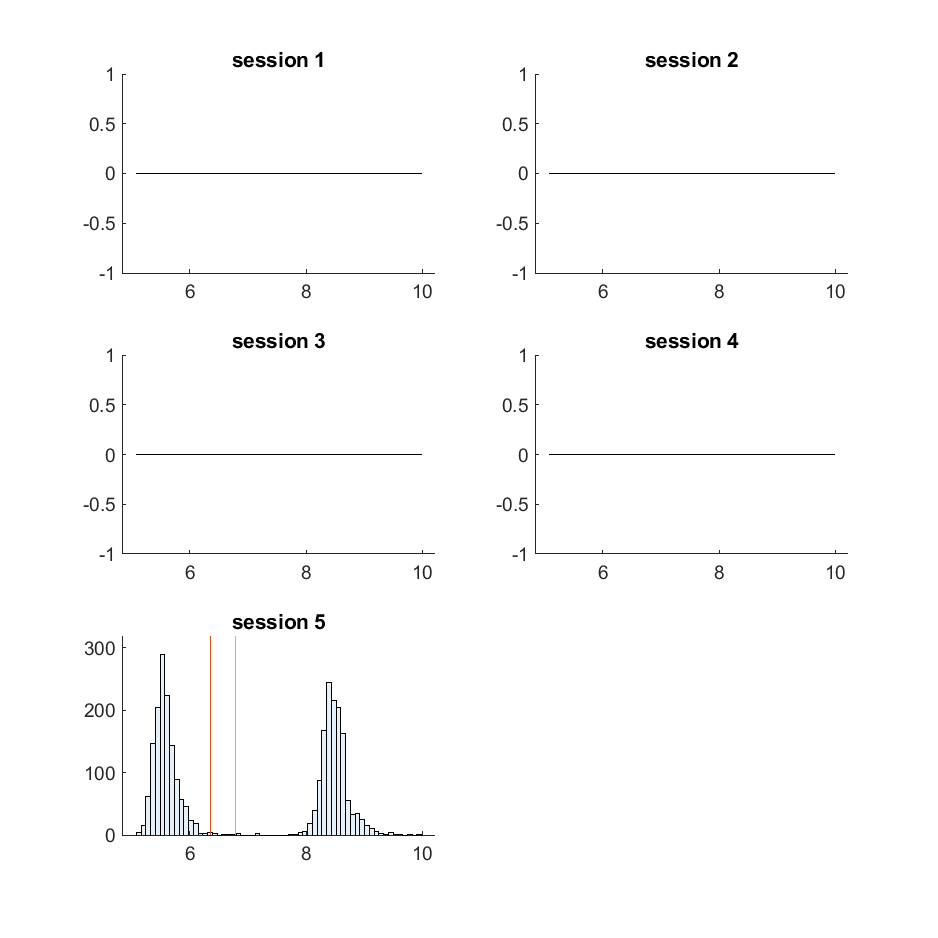
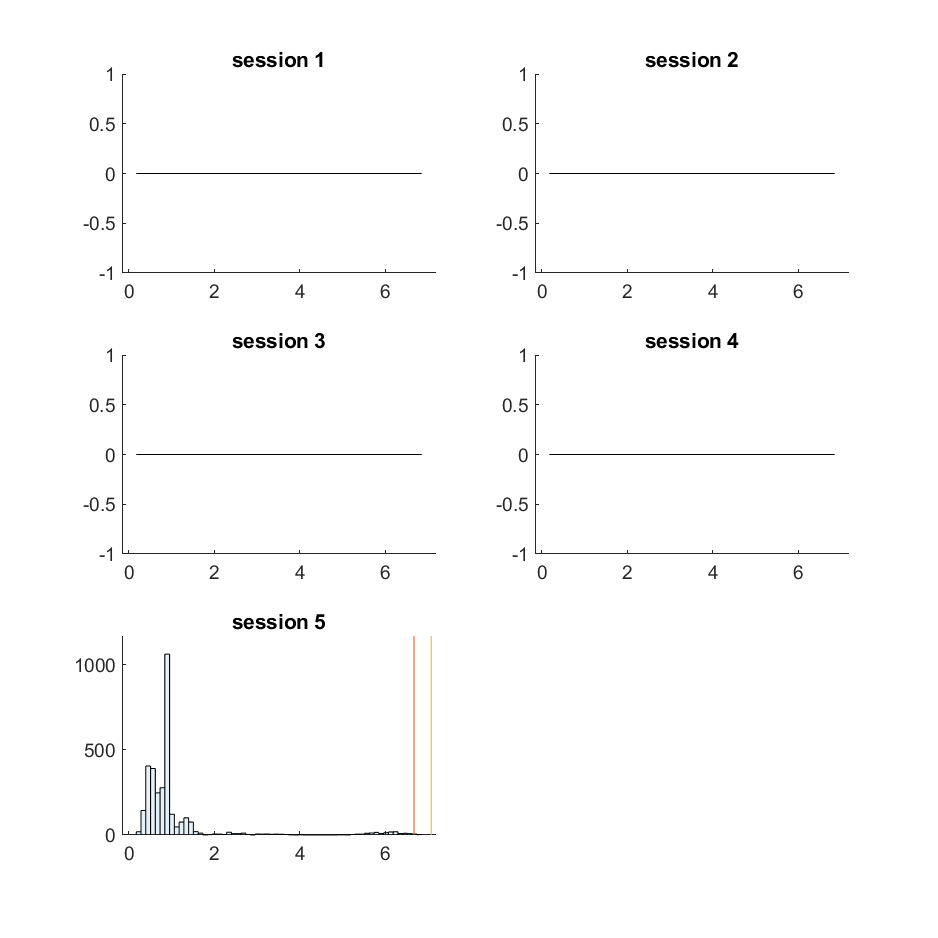
fixed trial timing problem in repsonse_types.m
AM fixed problem in response_types.m: the function for finding the fieldtrip struct trial that matches a given behaviorally-defined trial (P08_correct_fieldtrip_trialtable_discrepancies.m) was matching many behaviorally-defined trials with fieldtrip trials that did not fully overlap all timepoints
-cause of the problem was that the behavioral trialtable being compared to the fieldtrip struct was _stimulus_syllable.txt…. so fieldtrip trials were only required to overlap with the stim period, resulting in the function picking fieldtrip trials which matched only the stim period and not the production period
-fixed this problem by appending following this line:
cfg.trials = trials_stim_trip;
……with the following two new lines:
   cfg.trials.starts = cfg.trials.starts - base_win_sec(1); % adjust to be beginning of baseline period
   cfg.trials.ends = trials_prod_trip.ends + post_speech_win_sec;

diff --git a/setpaths_dbs_triplet.m b/setpaths_dbs_triplet.m
@@ -12,7 +12,7 @@
             PATH_ARTIFACT = [PATH_TRIPLET_CODE filesep 'P08_artifact_criteria_E']; % keep in repo to sync across devices
          PATH_IEEG_FT_FUNCS_AM = [PATH_CODE filesep 'ieeg_ft_funcs_am']; % ieeg processing code shared across AM projects
          PATH_BML = [PATH_CODE filesep 'bml']; 
-         PATH_FIELDTRIP_CODE = [PATH_CODE filesep 'fieldtrip-20210616']; 
+         PATH_FIELDTRIP_CODE = [PATH_CODE filesep 'fieldtrip']; 
          PATH_AVERAGE_MNI = [PATH_RESULTS filesep 'atlases' filesep 'CortexLowRes_15000V_MNI_ICBM_2009b_NLIN_ASYM.mat']; 
          PATH_SUBCORT_ATLAS_VIM = [PATH_RESULTS filesep 'atlases' filesep 'atlas_index_DISTAL_Ewert2017.mat']; % too large to keep in github; put atlases in Results
          PATH_STN_ATLAS = [PATH_RESULTS filesep 'atlases' filesep 'atlas_index_subcort_Ewert_v2.1.7.mat']; 
